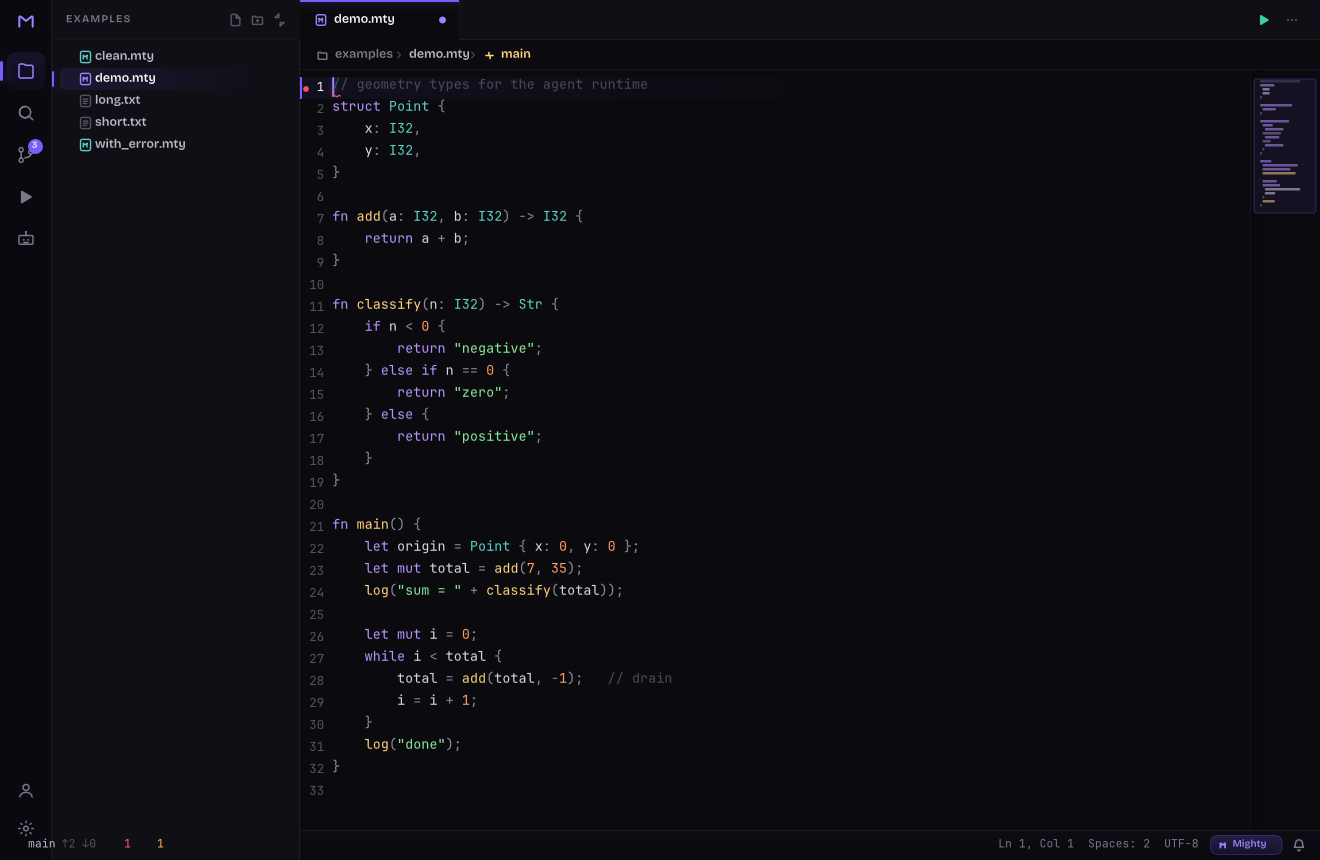
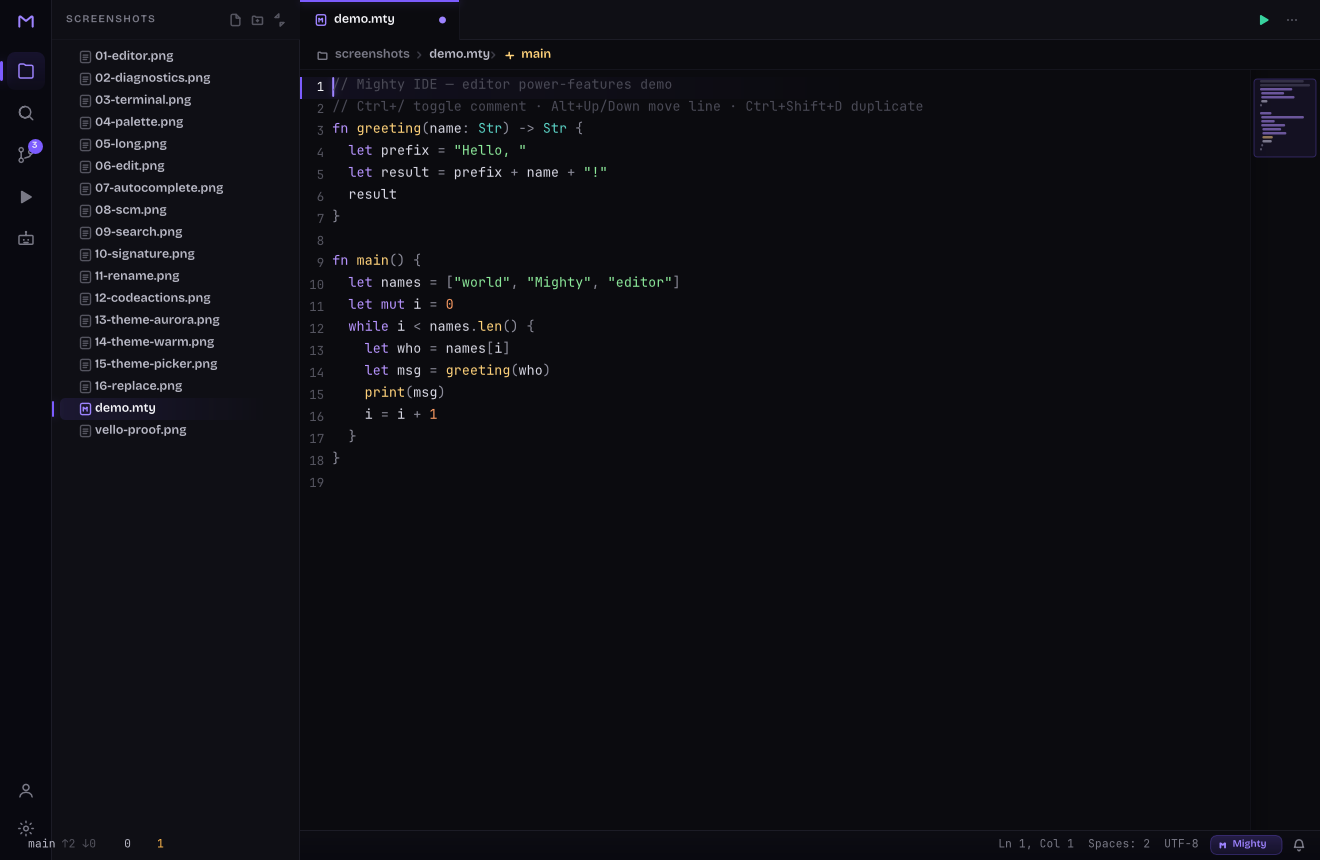
docs + screenshots for editor power-features
- README: list the new editor power-features + keybindings
- mighty-language-lessons L32: power-features fit the shim-side model with no
  new Mighty limitation (only L20 bit-test patterns recur); record the
  multi-cursor skip rationale
- Regenerate screenshots/01-editor.png (1320x860, Vivid Modern) and add
  screenshots/16-replace.png (the in-file find/replace bar), captured headlessly
  off the new screenshots/demo.mty via MUI_REPLACE_AUTOOPEN

diff --git a/docs/mighty-language-lessons.md b/docs/mighty-language-lessons.md
@@ -277,6 +277,14 @@ Discovered building the format-document feature (Feature B). `mty fmt --help` ad
 
 **No Mighty-source limitation** surfaced building Feature A (undo/redo): per L21 the entire snapshot history lives shim-side (`history.rs`); Mighty streams its post-edit buffer in (reusing the save/tab-store byte path), and the shim coalesces single-char typing runs / decides whether to push. The one Mighty-grammar reminder that bit again was **L20** — the redo chord condition `((cp==121||cp==89) || ((cp==122||cp==90) && shift))` mis-parsed as a call (`value of type Bool is not callable`); spelling the chords as flat `let`-bound predicate fns (`is_undo_chord` / `is_redo_chord` / `is_format_chord`) fixed it. **Granularity chosen:** one Ctrl+Z undoes a contiguous typing run; the run is broken (→ a fresh undo step) by any non-insert action — newline, Tab char, delete/backspace, cursor move (arrows/click), completion accept, save, format, find-jump, and tab switch (`mui_undo_break`). Buffer-replacement events (tab switch/open/close, go-to-def cross-file) re-seed a fresh per-buffer baseline (`mui_undo_seed_*`).
 
+### L32. Editor power-features (comment/indent/auto-close/bracket-match/duplicate/move-line/word-motion/in-file-replace) fit the shim-side model with NO new Mighty limitation — only the `mods` bit-test patterns (L20) recur ✅ **[finding]**
+Discovered adding daily-driver editor features (Ctrl+/, auto-indent on Enter, bracket/quote auto-close + skip-over + pair-backspace, bracket-match highlight, Ctrl+Shift+D duplicate, Alt+Up/Down move-line, Ctrl+Left/Right word motion + Shift-extend, smart Home, Ctrl+H in-file replace). Per L28 the editable text lives in the shim's `TextModel` (`editor.rs`), so every feature is a pure, exhaustively-unit-tested Rust method exposed through a scalar `mui_ed_*` op; Mighty only routes the keybinding and reads scalars back. The bracket-match highlight is drawn **inside `mui_ed_draw`** (the shim already owns the body render and knows the cursor), so no extra Mighty call or per-frame Vec read is needed. The in-file replace bar reuses the prompt/find shim-state pattern (a `ReplaceBar` with two char-vec fields + a focus flag) and one new flat input-mode arm (L29). No new language gap surfaced. Reminders that recur (not new):
+- **L20 bit-tests:** the new `Alt` modifier predicate (`alt_held`, bit value 4) and the `Ctrl+Shift+D` / `Ctrl+H` chord predicates must be spelled as flat `let`-bound boolean fns (no juxtaposed paren groups), exactly like the existing `is_undo_chord` family.
+- **Smart-insert return contract:** `mui_ed_insert_smart` returns `1` when it auto-closed/skipped (so Mighty must NOT also insert) and `0` to fall back to a plain `mui_ed_insert_char` — a single scalar drives the branch, no struct/tuple needed (sidesteps L15/L27).
+- **Auto-close is shim-decided:** because Mighty can't inspect the char to the right of the cursor without a round-trip, the whole "open vs skip-over vs fall-through" decision is made in the shim from the model and returned as the one scalar above; Mighty stays a thin router.
+
+**Multi-cursor (Ctrl+D, the optional feature) was SKIPPED — by design, not a language limit.** The `TextModel` is single-cursor + single-anchor throughout (`insert_char`/`backspace`/`newline`/`move_*`/the `mui_ed_draw` selection + caret path + the undo snapshots all assume one cursor). Adding N cursors would mean a `Vec<(line,col,anchor)>` and re-deriving every edit/draw/undo op to fan out over it — a large, risk-bearing change to the proven single-cursor core for a feature the spec marked "only if it fits cleanly." The foundation it would build on (select-word, select next occurrence) IS shipped as `select_word` / `mui_ed_select_word` (feature 7), so a future multi-cursor pass has its primitives ready. Skipping it keeps the live-edit/undo/render invariants intact.
+
 ## P1 — Major ergonomic gaps for real programs
 
 ### L3. `String` has no insert / remove / slice / char-indexing ✅ **[P1]**

diff --git a/README.md b/README.md
@@ -9,6 +9,7 @@ A native, **GPU vector-rendered** IDE **written in [Mighty](https://github.com/h
 ## Features (working today)
 
 - **Live editing** — open any file, type/insert/delete/newline, save (Ctrl+S), syntax-colored body, current-line band, line-number gutter, cursor-following scroll, click-to-place-cursor, mouse-wheel scroll, undo/redo (Ctrl+Z / Ctrl+Y)
+- **Editor power-features** — toggle line comment (Ctrl+/), auto-indent on Enter (copies leading whitespace; `{`/`}` add/remove a level), bracket/quote auto-close + skip-over + empty-pair backspace, bracket-match highlight, duplicate line/selection (Ctrl+Shift+D), move line up/down (Alt+↑ / Alt+↓), in-file find & replace (Ctrl+H: replace-next / replace-all), word-wise motion (Ctrl+←/→), smart Home, and Shift+motion selection
 - **Navigation** — go-to-line (Ctrl+G), find with match highlighting (Ctrl+F), go-to-definition (F12, cross-file), jump-back (Ctrl+−), hover info (Ctrl+K)
 - **Workspace** — tabs (Ctrl+Tab / Ctrl+Shift+Tab / Ctrl+W, click), file-tree sidebar (Ctrl+B), open-by-path (Ctrl+O)
 - **Language intelligence (via Mighty's own `mty-lsp`)** — live `mty check` diagnostics (gutter dots + squiggle underlines), autocomplete (Ctrl+Space: semantic LSP completions + buffer words)